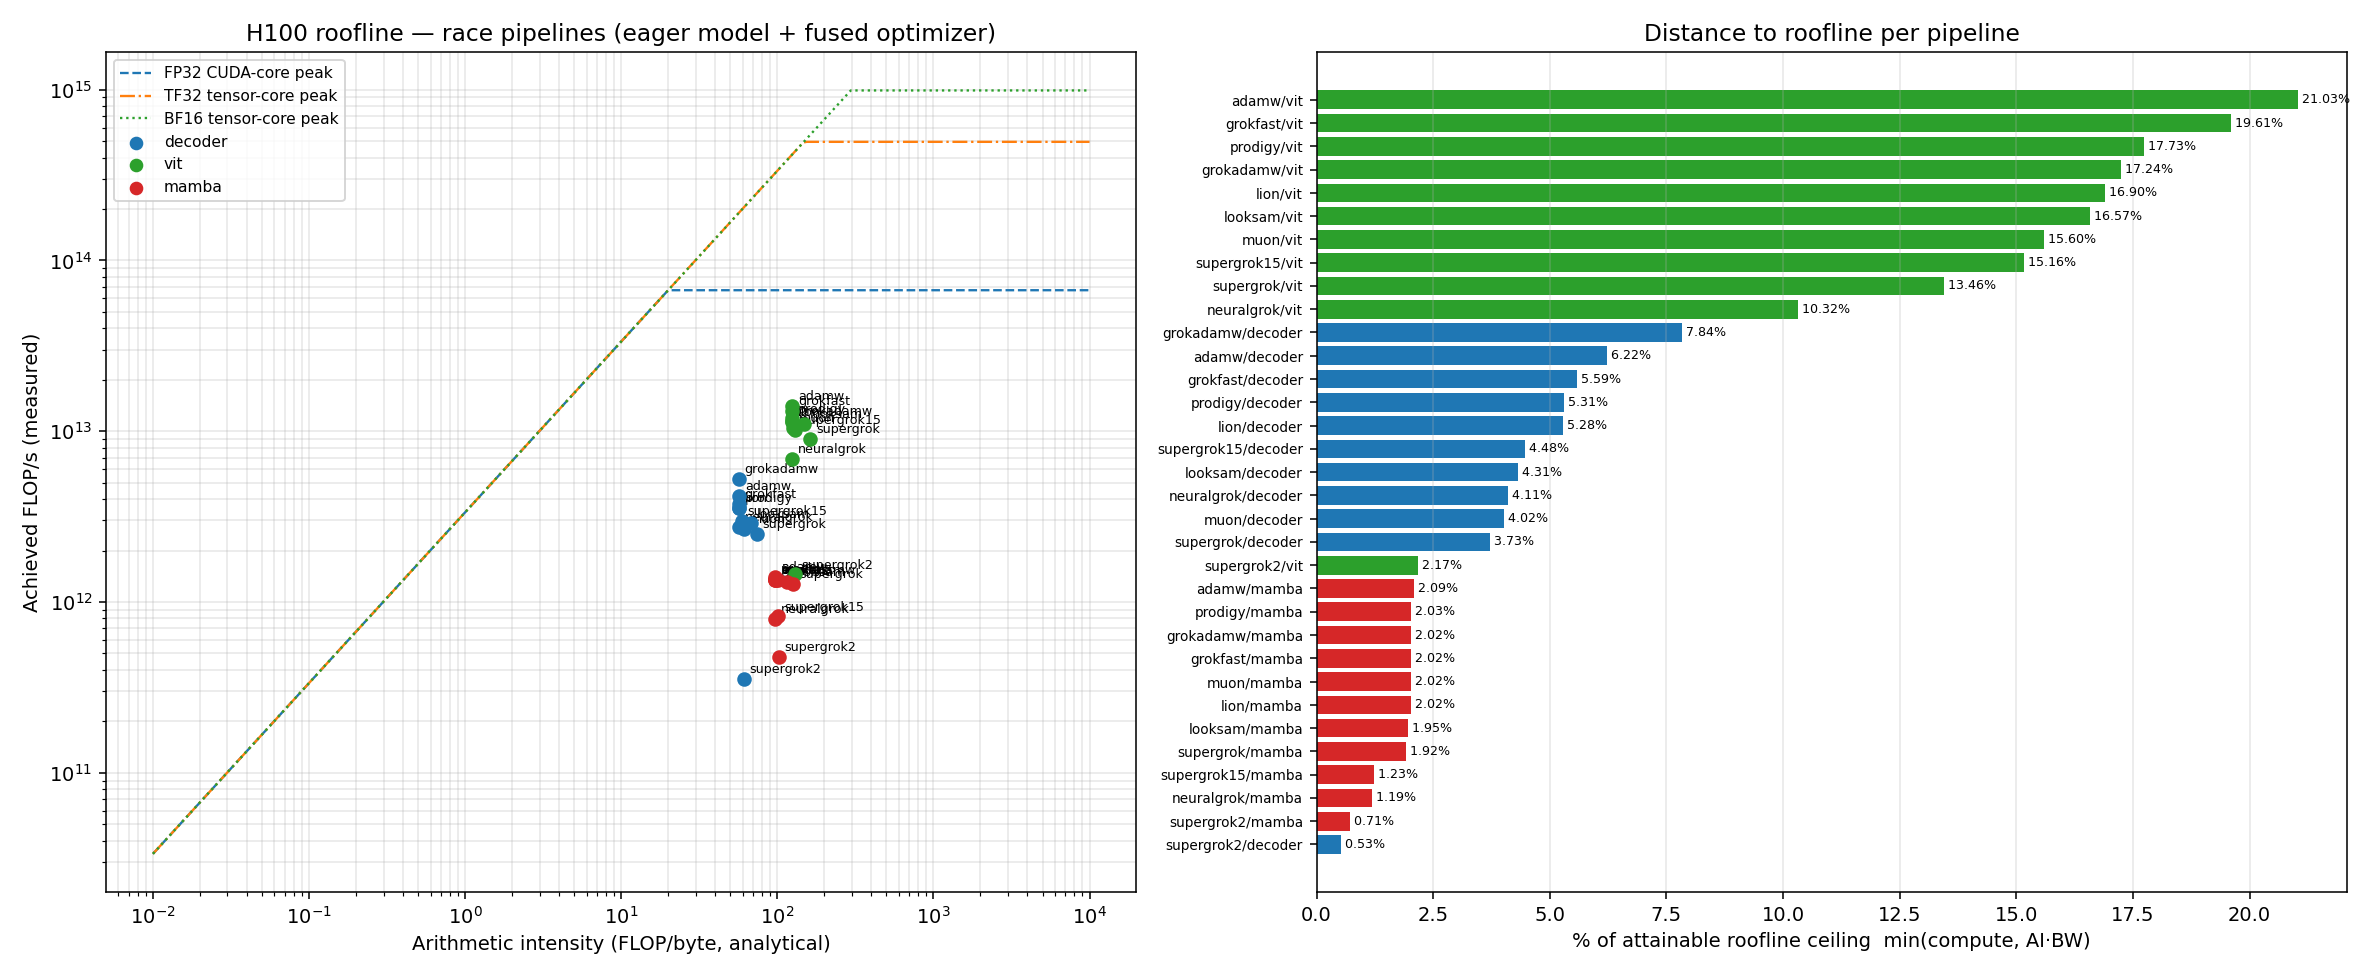
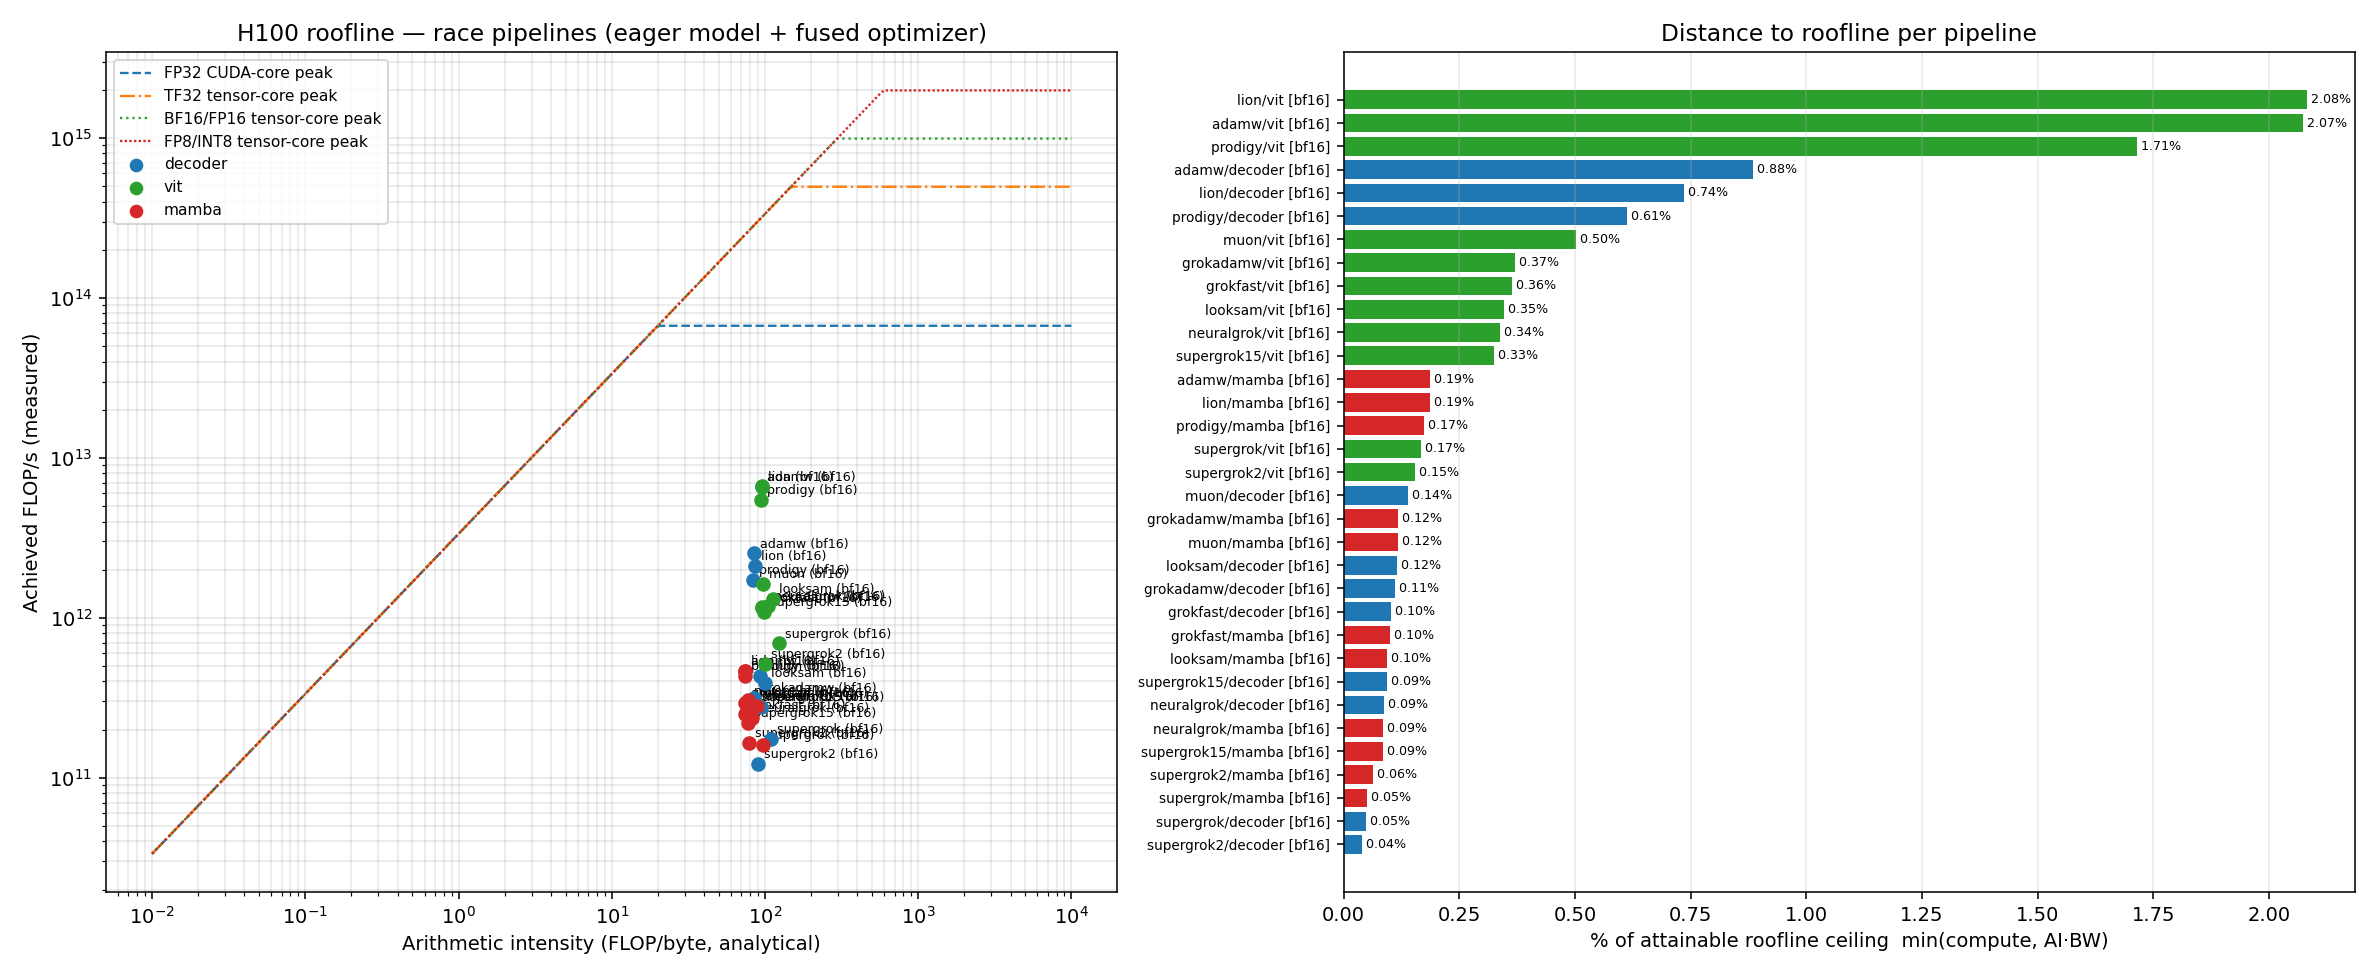
roofline: post-R2 measurement (33 pipelines) + plot linestyle/None-peak fixes

diff --git a/tuning/roofline.py b/tuning/roofline.py
@@ -324,8 +324,10 @@ def make_plot(rows, path):
                            ("fp8_tc", "FP8/INT8 tensor-core peak", (0, (1, 1)))]:
         if PEAKS.get(key) is None:  # fp8/int8 peaks retired with the precision program
             continue
+        # linestyle= keyword required: tuple dash specs (0,(1,1)) passed
+        # positionally are parsed as a data series and crash matplotlib.
         ax.plot(ais, np.minimum(PEAKS[key], ais * PEAKS["hbm_bw"]),
-                ls, lw=1.2, label=label)
+                linestyle=ls, lw=1.2, label=label)
     colors = {"decoder": "#1f77b4", "vit": "#2ca02c", "mamba": "#d62728"}
     for r in rows:
         ax.scatter(r["arithmetic_intensity"], r["achieved_flops_per_s"],
